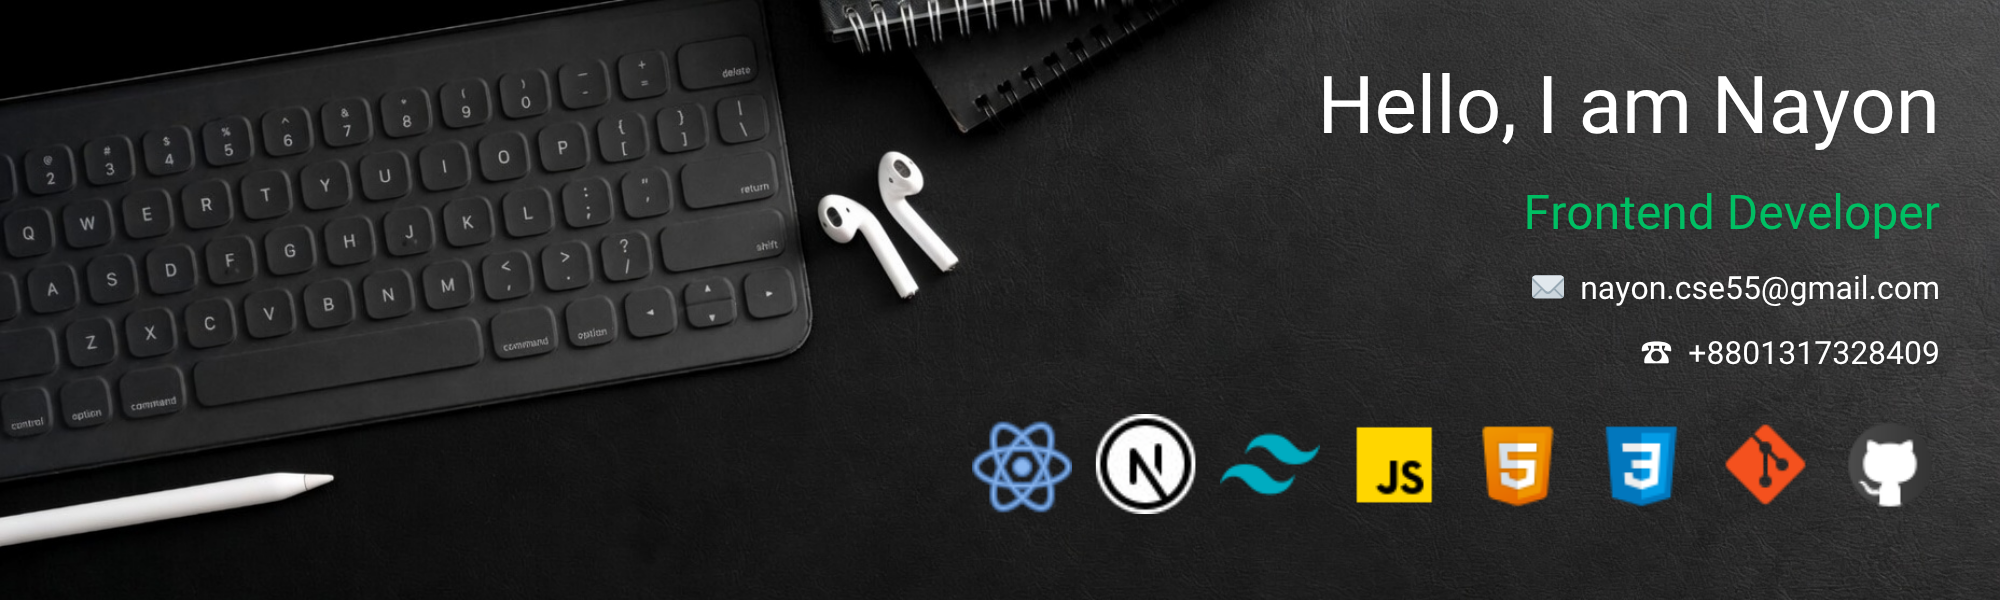
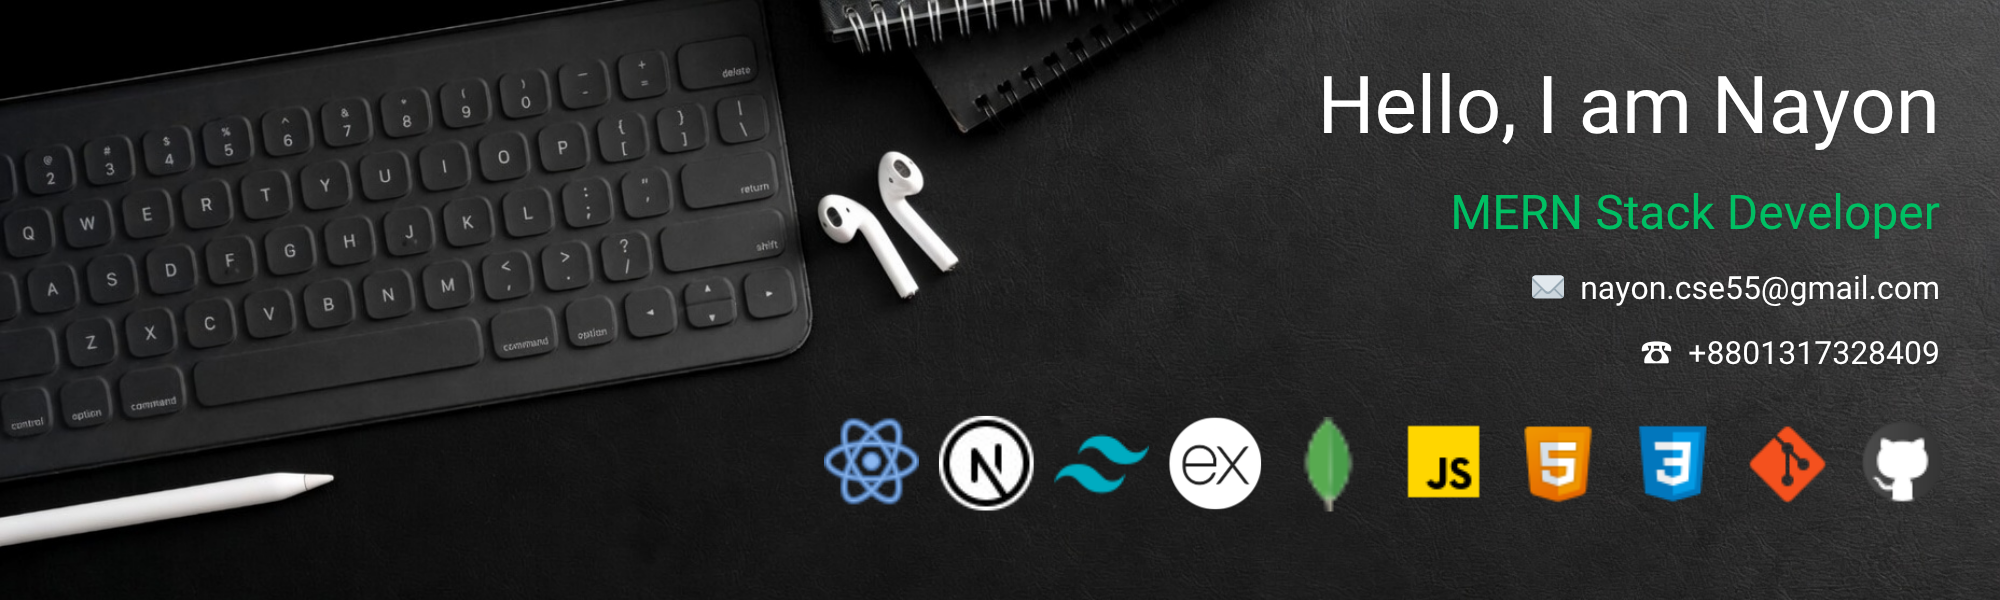
Picture and description changed

Changed region(s): [[0.403, 0.69, 0.992, 0.87], [0.713, 0.33, 0.868, 0.39]]

diff --git a/README.md b/README.md
@@ -10,7 +10,7 @@
 
 ## 👨💻 About Me
 
-<P> I am Nayon. I am a Frontend Developer. I have hands-on experience with modern web development technologies including <b>Next.js, React.js, Tailwind CSS, JavaScript (ES6+), Express.js, MongoDB, HTML5, CSS3, Git, </b> and <b>GitHub</b>. I’ve completed some projects. These projects helped me understand responsive design, debugging, optimization, error fixing and improving user-experience.</p> 
+<P> I am Nayon. I am a MERN Stack Developer. I have hands-on experience with modern web development technologies including <b>Next.js, React.js, Tailwind CSS, JavaScript (ES6+), Express.js, MongoDB, HTML5, CSS3, Git, </b> and <b>GitHub</b>. I’ve completed some projects. These projects helped me understand responsive design, debugging, optimization, error fixing and improving user-experience.</p> 
 <P> I’m a self-motivated learner. I always enjoy learning new technologies, solving real-world problems, and improving myself step by step. My goal is to become a Frontend Developer and eventually grow into a full-stack developer.</p>
 <P>I am always open to new opportunities to contribute, learn, and grow. If you think I could be a good fit for your team, then you can contact with me.</p>
 
